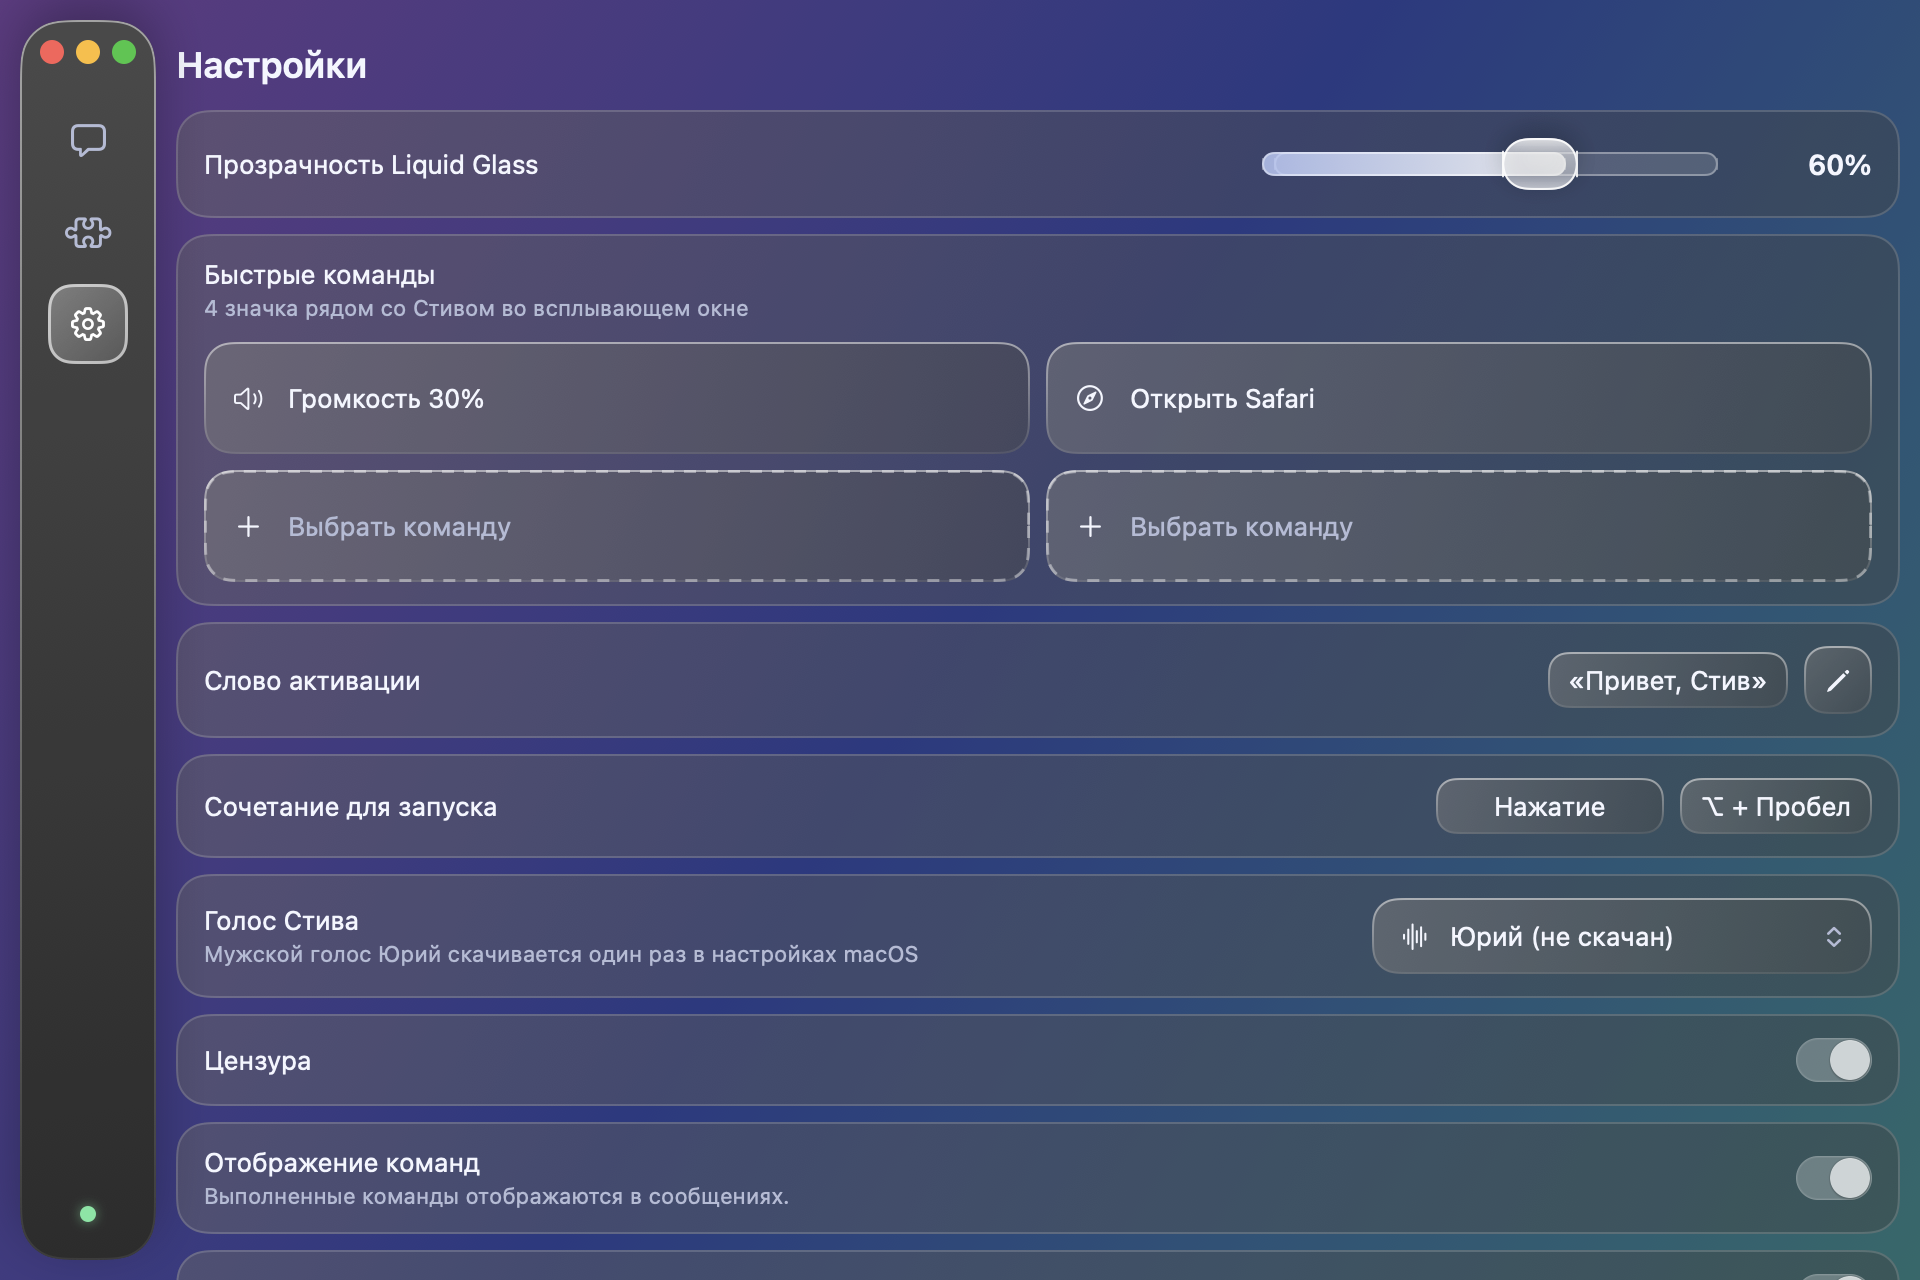
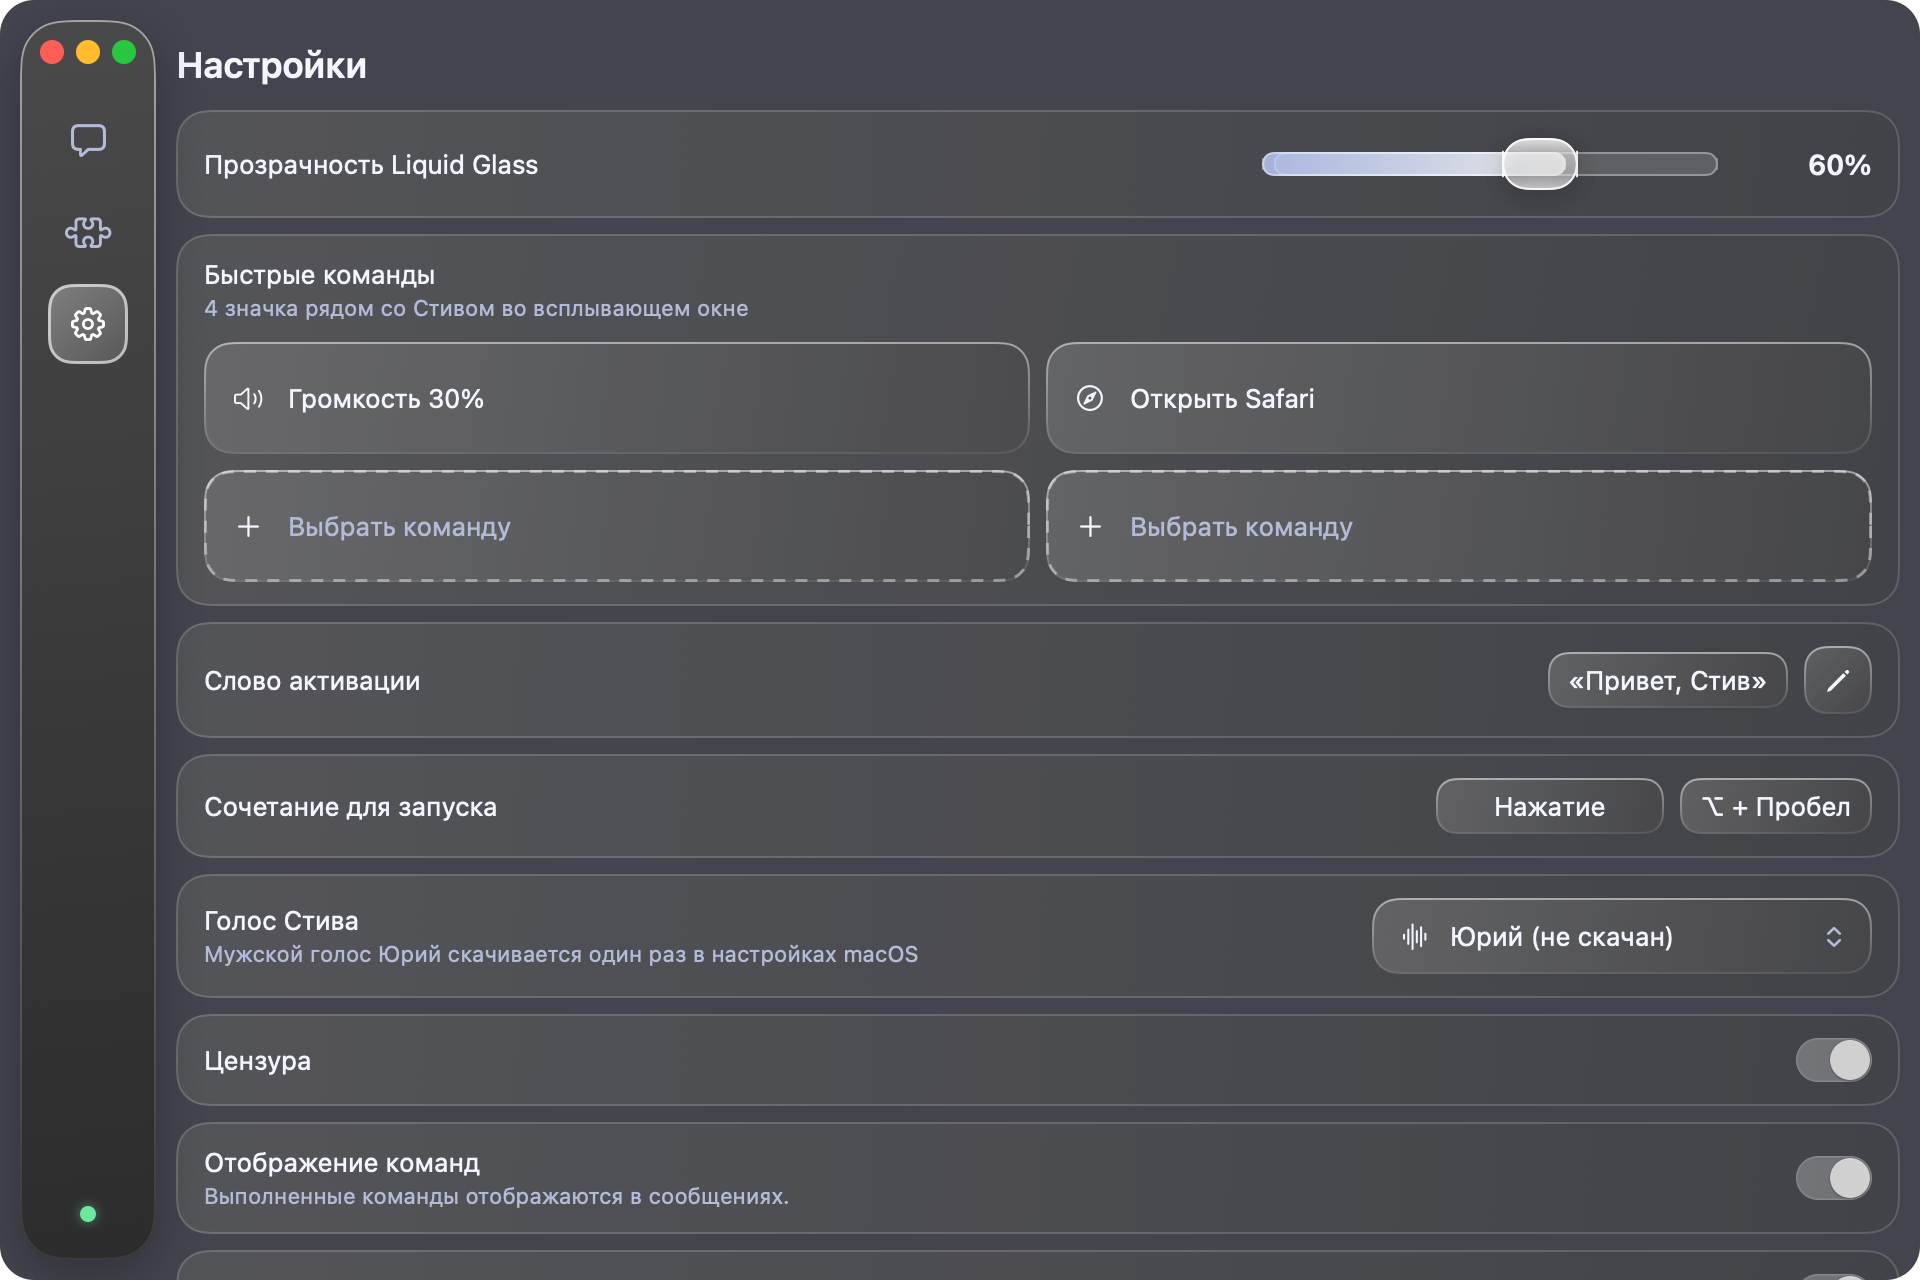
docs: screenshots from the real app window, cropped to the window shape; demo mode and rounding tool

diff --git a/app/Sources/Steve/SnapshotTool.swift b/app/Sources/Steve/SnapshotTool.swift
@@ -23,6 +23,7 @@ enum SnapshotTool {
                 NSApp.terminate(nil)
                 return
             }
+            if AppModel.isDemo { model.prepareDemo() }
             for (width, height) in [(960.0, 640.0), (560.0, 700.0), (420.0, 460.0)] {
                 for section in [AppSection.chat, .presets, .settings] {
                     model.section = section
@@ -58,7 +59,7 @@ enum SnapshotTool {
             await capture(RootContent().environment(model), size: CGSize(width: 960, height: 640), to: folder.appendingPathComponent("sidebar-expanded.png"))
             model.previewSidebarExpanded = false
             model.character.play(.happy)
-            await capture(PopoverView().environment(model), size: CGSize(width: 340, height: 330), to: folder.appendingPathComponent("popover.png"))
+            await capture(PopoverView().environment(model), size: CGSize(width: 340, height: 330), to: folder.appendingPathComponent("popover.png"), plainBackground: true)
             await capture(iconSheet, size: CGSize(width: 720, height: 150), to: folder.appendingPathComponent("menubar-icon.png"))
             NSApp.terminate(nil)
         }
@@ -84,10 +85,14 @@ enum SnapshotTool {
     }
 
     /// Рисует настоящий NSHostingView, поэтому в снимок попадают и поля ввода, и прокрутка.
-    private static func capture(_ view: some View, size: CGSize, to url: URL) async {
+    private static func capture(_ view: some View, size: CGSize, to url: URL, plainBackground: Bool = false) async {
         let content = ZStack(alignment: .topLeading) {
-            LinearGradient(colors: [Color(red: 0.55, green: 0.3, blue: 0.7), Color(red: 0.2, green: 0.3, blue: 0.7), Color(red: 0.15, green: 0.6, blue: 0.55)],
-                           startPoint: .topLeading, endPoint: .bottomTrailing)
+            if plainBackground {
+                Color(red: 0.26, green: 0.27, blue: 0.30) // как в настоящем окне без обоев под ним
+            } else {
+                LinearGradient(colors: [Color(red: 0.55, green: 0.3, blue: 0.7), Color(red: 0.2, green: 0.3, blue: 0.7), Color(red: 0.15, green: 0.6, blue: 0.55)],
+                               startPoint: .topLeading, endPoint: .bottomTrailing)
+            }
             view
         }
         .frame(width: size.width, height: size.height)

diff --git a/app/Sources/Steve/AppModel.swift b/app/Sources/Steve/AppModel.swift
@@ -151,19 +151,20 @@ final class AppModel {
         tools.onAttachmentsChanged = { [weak self] in self?.attachments = self?.tools.attachments ?? [] }
         hotkeys.onPress = { [weak self] in self?.hotkeyPressed() }
         hotkeys.onRelease = { [weak self] in self?.hotkeyReleased() }
-        hotkeys.register(settings.hotkey)
+        if !Self.isDemo { hotkeys.register(settings.hotkey) }
 
-        applyLaunchAtLogin()
+        if !Self.isDemo { applyLaunchAtLogin() }
         // вернулся из системных настроек: права могли измениться, показываем сразу
         NotificationCenter.default.addObserver(forName: NSApplication.didBecomeActiveNotification, object: nil, queue: .main) { [weak self] _ in
             Task { @MainActor in await self?.permissions.refresh() }
         }
+        Task { await keepMenuBarIconFresh() }
+        guard !Self.isDemo else { return } // для снимков экрана микрофон, права и модель не нужны
         Task {
             await permissions.refresh()
             if permissions.speech == .notAsked || permissions.microphone == .notAsked { await permissions.requestVoice() }
             restartWakeWord()
         }
-        Task { await keepMenuBarIconFresh() }
         Task { _ = await engine?.reply(to: "привет", history: []) } // прогрев: модель загружается в память заранее
     }
 

diff --git a/app/scripts/round-corners.swift b/app/scripts/round-corners.swift
@@ -1,0 +1,23 @@
+#!/usr/bin/env swift
+// Обрезает снимок по форме окна: скруглённые углы и прозрачность за ними.
+// Запуск: swift scripts/round-corners.swift <вход.png> <выход.png> <радиус в пикселях>
+import AppKit
+
+let arguments = CommandLine.arguments
+guard arguments.count == 4, let radius = Double(arguments[3]),
+      let source = NSImage(contentsOf: URL(fileURLWithPath: arguments[1])),
+      let cgImage = source.cgImage(forProposedRect: nil, context: nil, hints: nil) else {
+    FileHandle.standardError.write(Data("usage: round-corners <in.png> <out.png> <radius>\n".utf8))
+    exit(1)
+}
+
+let width = cgImage.width, height = cgImage.height
+let context = CGContext(data: nil, width: width, height: height, bitsPerComponent: 8, bytesPerRow: 0,
+                        space: CGColorSpaceCreateDeviceRGB(), bitmapInfo: CGImageAlphaInfo.premultipliedLast.rawValue)!
+let rect = CGRect(x: 0, y: 0, width: width, height: height)
+context.addPath(CGPath(roundedRect: rect, cornerWidth: radius, cornerHeight: radius, transform: nil))
+context.clip()
+context.draw(cgImage, in: rect)
+
+let rep = NSBitmapImageRep(cgImage: context.makeImage()!)
+try rep.representation(using: .png, properties: [:])!.write(to: URL(fileURLWithPath: arguments[2]))
